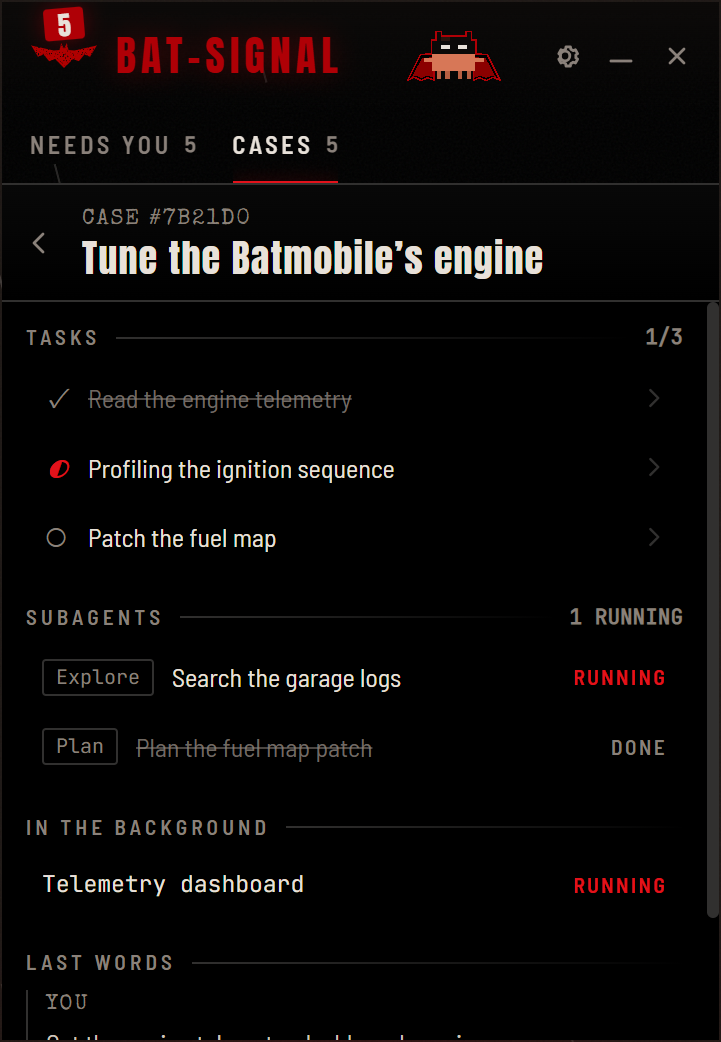
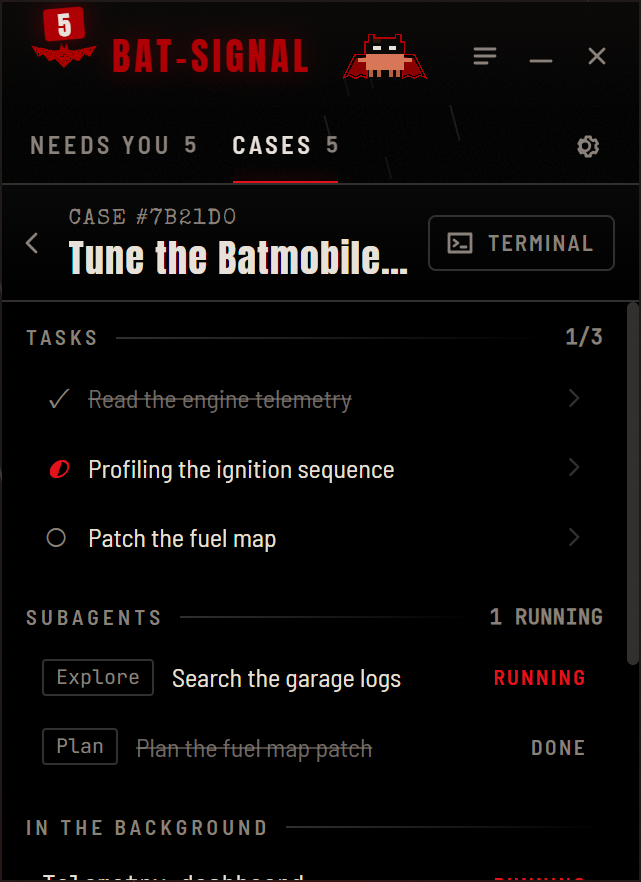
docs: show the terminal jump, the watch strip and the night report

diff --git a/README.md b/README.md
@@ -20,6 +20,8 @@ Bat-Signal rests in a corner of your screen as a small signal disc. When somethi
 - shows which sessions are active and what each one is doing (tasks, subagents, background commands);
 - tells you when tasks finish;
 - gathers everything that **needs you** in one place (permission prompts, Claude waiting for input, errors);
+- takes you **to the session's terminal** in one click, bringing its Windows Terminal window and tab to the front;
+- shrinks to a **watch strip**, one line per session, to follow the work from the corner;
 - has a mascot: **Bat-Clawd**, Claude Code's Clawd in a cowl and cape. He sleeps wrapped in his cape when all is quiet, takes off with it streaming behind him when a session is working, and throws it open, showing its red lining, when something needs you.
 
 The look is inspired by the reds and blacks of *The Batman* (2022): every session is a case file, every alert a red ink stamp, with rain falling behind it all.
@@ -28,7 +30,11 @@ The look is inspired by the reds and blacks of *The Batman* (2022): every sessio
 
 | Cases | Task drawer | All quiet |
 |---|---|---|
-| <img src="docs/screenshots/cases.png" width="240" alt="Case cards with case numbers, status, task progress and Claude's last words"> | <img src="docs/screenshots/task-drawer.png" width="240" alt="A drawer with a task's brief and timeline"> | <img src="docs/screenshots/all-quiet.png" width="240" alt="Nothing pending: two quiet cases, Bat-Clawd asleep in the header"> |
+| <img src="docs/screenshots/cases.png" width="240" alt="Case cards with case numbers, status and task progress, each with a terminal button"> | <img src="docs/screenshots/task-drawer.png" width="240" alt="A drawer with a task's brief and timeline"> | <img src="docs/screenshots/all-quiet.png" width="240" alt="Nothing pending: two quiet cases, Bat-Clawd asleep in the header"> |
+
+| Watch strip | The night report theme | A case opened in the report |
+|---|---|---|
+| <img src="docs/screenshots/watch.png" width="240" alt="The watch strip: one row per session with its stamp, title, progress and pending request"> | <img src="docs/screenshots/night-report.png" width="240" alt="The night report: what awaits your signature, typed, with stamps in the margin and a red pen under each request"> | <img src="docs/screenshots/night-report-case.png" width="240" alt="Case notes with one case opened in place: its file line, a terminal button and typed task boxes"> |
 
 | Settings | The Bat-Signal at rest |
 |---|---|
@@ -59,7 +65,7 @@ claude plugin install bat-signal@bat-signal
 
 The plugin is observe-only and does nothing when the app is closed. Details in [docs/plugin.md](docs/plugin.md). Coming from Batcave? See [upgrading](docs/plugin.md#upgrading-from-batcave): the old plugin must be removed first.
 
-Bat-Signal starts as the signal disc in the bottom-right corner: drag it anywhere, click it to open the panel. Drag the panel by its header and resize it from any edge; Esc or the fold button folds it back into the signal. Both open where you left them.
+Bat-Signal starts as the signal disc in the bottom-right corner: drag it anywhere, click it to open the panel. The strip button shrinks the panel to the watch strip, and the disc reopens whichever you used last. Drag the panel by its header and resize it from any edge; Esc or the fold button folds it back into the signal. The night report theme is in Settings.
 
 ## Light on resources
 
